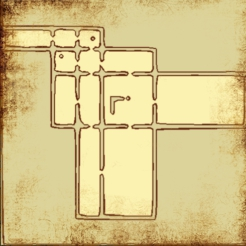
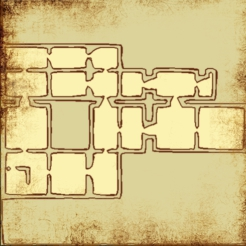
dungeon exit door

diff --git a/site/htdocs/game-world/generateCircularDungeonMap.php b/site/htdocs/game-world/generateCircularDungeonMap.php
@@ -10,6 +10,8 @@ if (isset($_GET["debug"])) {
     $debug = false;
 }
 
+$isFirstTime = true;
+
 if($debug) {
 ?>
 <style>
@@ -416,40 +418,40 @@ if($debug) {
 
 function init()
 {
-    global $nodeList, $jointList, $canvaDimension, $keyColours, $storedSeed, $unadjustedSeed, $debug, $thisMapsId, $thisPlayersId, $dungeonName, $thisMapsId;
+    global $nodeList, $jointList, $canvaDimension, $keyColours, $storedSeed, $unadjustedSeed, $debug, $thisMapsId, $thisPlayersId, $dungeonName, $thisMapsId, $isFirstTime;
 
-$thisMapsId = $_GET['requestedMap'];
-$thisPlayersId = 999;
-
+    $thisMapsId = $_GET['requestedMap'];
+    $thisPlayersId = 999;
 
     $keyColours = array(
         array(255, 0, 64),
         array(255, 235, 15),
         array(15, 134, 255),
-        array(19, 209, 46),
+        array(19, 209, 46)
     );
     $canvaDimension = 600;
     $nodeList       = array();
     $jointList      = array();
-    if (isset($_GET["seed"])) {
+    if (isset($_GET["seed"]) && $isFirstTime) {
         $storedSeed = intval($_GET["seed"]);
+        // allow the seed to be regenerated if this seed fails:
+        $isFirstTime = false;
     } else {
         // http://php.net/manual/en/function.mt_srand.php
         list($usec, $sec) = explode(' ', microtime());
         $storedSeed       = floor((float) $sec + ((float) $usec * 100000));
     }
     $dungeonName = $_GET["dungeonName"];
+
+    
+    $mapFilename = "../data/chr" . $thisPlayersId . "/dungeon/".$dungeonName."/" . $thisMapsId . '.json';
+    if ((is_file($mapFilename)) && !$debug) {
+        header("Location: /" . $mapFilename);
+        die();
+    }
+
+    $unadjustedSeed = $storedSeed;
     // make sure the level is unique even if the same seed is used:
-
-
-$mapFilename = "../data/chr" . $thisPlayersId . "/dungeon/".$dungeonName."/" . $thisMapsId . '.json';
-  if ((is_file($mapFilename)) && !$debug) {
-            header("Location: /" . $mapFilename);
-            die();
-        }
-
-
-$unadjustedSeed = $storedSeed;
     $storedSeed -= intval($thisMapsId);
   
     mt_srand($storedSeed);
@@ -3095,7 +3097,7 @@ echo"</pre></code>";
 
 
 function placeDoors() {
-    global $doorsJSON, $exitX, $exitY, $thisMapsId, $map, $thisPlayersId, $dungeonName, $entranceX, $entranceY;
+    global $doorsJSON, $exitX, $exitY, $thisMapsId, $map, $thisPlayersId, $dungeonName, $entranceX, $entranceY, $dungeonDetails;
 
 // place exit:
 $doorsJSON = '{';
@@ -3120,11 +3122,22 @@ echo"</pre></code>";
 $previousMap = $thisMapsId+1;
 
 if($previousMap == 0) {
- // get data from config
+ // get data from config:
+$exitX = $dungeonDetails[$dungeonName]['doorCentreWhenLeavingTheDungeon'][0];
+$exitY = $dungeonDetails[$dungeonName]['doorCentreWhenLeavingTheDungeon'][1];
+$targetMap = $dungeonDetails[$dungeonName]['mapWhenLeavingTheDungeon']; 
+// +1 on Y to place the doors just before the place the hero will start:
+    for ($i=-1;$i<=1;$i++) {
+    $doorsJSON .= '"'.($entranceX+$i).','.($entranceY+1).'": {  "map": '.$targetMap.',  "startX": "';
+         $doorsJSON .= ($exitX+$i);
+    $doorsJSON .= '",  "startY": "'.$exitY.'"},';
+    $map[$entranceY+1][($entranceX+$i)] = "e";
+}
+   
 } else {
 
 
-// load previous procedural map json ###
+// load previous procedural map json 
     $jsonPath = $_SERVER['DOCUMENT_ROOT'].'/data/chr'.$thisPlayersId.'/dungeon/'.$dungeonName.'/'.$previousMap.'.json';
     $previousMapFile = file_get_contents($jsonPath);
 $previousMapJSON = json_decode($previousMapFile, TRUE);
@@ -3139,9 +3152,9 @@ array_push($previousMapsExitDoors, array($thisDoorLocation[0],$thisDoorLocation[
 
 
 for ($i=-1;$i<=1;$i++) {
-    // -1 on Y to place the doors just before the place the hero will start:
-    $doorsJSON .= '"'.($entranceX+$i).','.($entranceY-1).'": {  "map": '.$previousMap.',  "startX": "'.$previousMapsExitDoors[($i+1)][0].'",  "startY": "'.$previousMapsExitDoors[($i+1)][1].'"},';
-    $map[$entranceY-1][($entranceX+$i)] = "e";
+    // +1 on Y to place the doors just before the place the hero will start:
+    $doorsJSON .= '"'.($entranceX+$i).','.($entranceY+1).'": {  "map": '.$previousMap.',  "startX": "'.$previousMapsExitDoors[($i+1)][0].'",  "startY": "'.$previousMapsExitDoors[($i+1)][1].'"},';
+    $map[$entranceY+1][($entranceX+$i)] = "e";
 }
 }
 

diff --git a/site/htdocs/includes/dungeonMapConfig.php b/site/htdocs/includes/dungeonMapConfig.php
@@ -15,6 +15,8 @@ $dungeonDetails = array(
 'randomItemsMax' => '8',
 'templatesMin' => '4',
 'templatesMax' => '6',
+'doorCentreWhenLeavingTheDungeon' => array(2,1),
+'mapWhenLeavingTheDungeon' => 2,
 'levelLockedTemplates' => array(
 	// template name => earliest level it can be encountered on, latest level it can be encountered on (INF or numeric):
 	// if not included, just use it without restrictions
